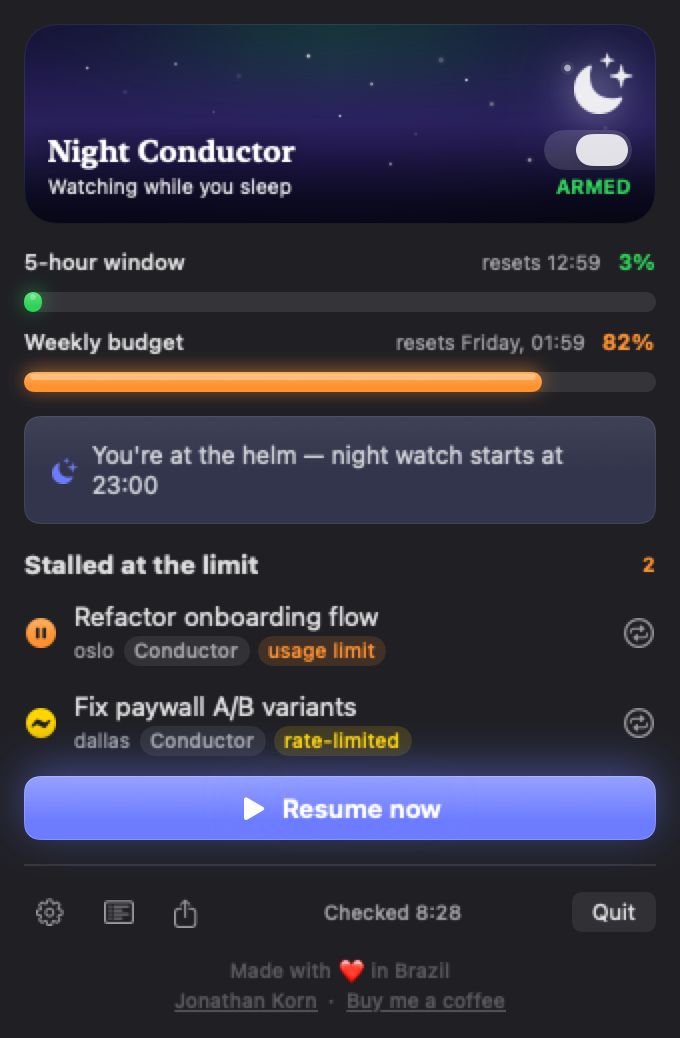
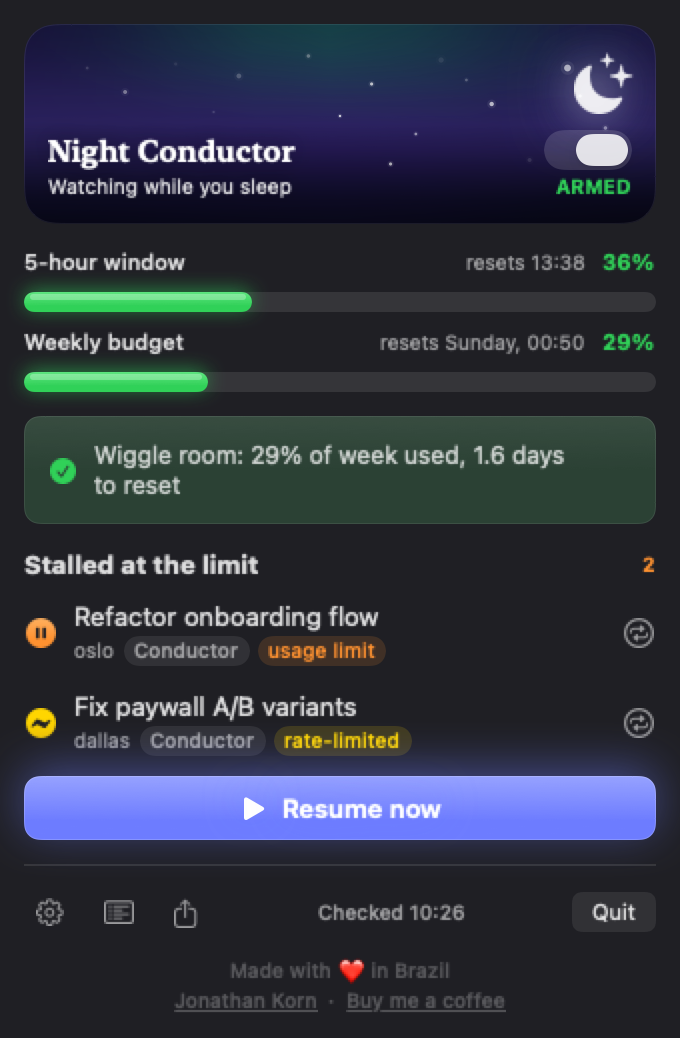
fix: remove em dashes from all in-app copy; keep docs screenshots on demo data
Standing rule: zero em/en dashes in any shipped copy. The whole UI was full of
them (decision lines, the morning notification, tooltips, the activity log, the
new sign-in-expired message, the usage placeholder). Replaced every one in a
user-facing string with commas/periods (and the unknown-usage placeholder with
a middot). Comments are untouched, so the diff stays in shipped strings.

Also fixed a screenshot-tooling regression: the popover's new on-open refresh
was firing during offscreen rendering, so docs screenshots pulled LIVE usage
(leaking real numbers) and a time-dependent decision. AppState now exposes
isScreenshot and the popover skips the live refresh in that mode, so docs use
curated demo data again. Regenerated popover/settings. 37 tests green.

diff --git a/NightConductor/Sources/NightConductor/AppState.swift b/NightConductor/Sources/NightConductor/AppState.swift
@@ -39,8 +39,10 @@ final class AppState: ObservableObject {
     // running a resume pass at the same time (which could double-run a
     // session and bypass the per-night caps).
     private var isResuming = false
+    let isScreenshot: Bool  // true → inert demo state; never hit the live API
 
     init(forScreenshots: Bool = false) {
+        isScreenshot = forScreenshots
         UserDefaults.standard.register(defaults: [
             "armed": true,
             "startHour": 23,
@@ -157,7 +159,7 @@ final class AppState: ObservableObject {
                 let delays = [300.0, 600.0, 1200.0, 1800.0] // 5, 10, 20, 30 min
                 usageBackoffStep = min(usageBackoffStep + 1, delays.count)
                 usageBackoffUntil = now.addingTimeInterval(delays[usageBackoffStep - 1])
-                log("Usage rate-limited — backing off \(Int(delays[usageBackoffStep - 1] / 60))m")
+                log("Usage rate-limited, backing off \(Int(delays[usageBackoffStep - 1] / 60))m")
             } catch let error as UsageError where error.isSignInExpired {
                 // The fetch was skipped/refused because the Claude Code token
                 // expired. No backoff (the call is cheap and we never hit the
@@ -200,11 +202,11 @@ final class AppState: ObservableObject {
         }
         let reason: String
         if signInExpired {
-            reason = "Claude sign-in expired — open Claude Code or Conductor to refresh"
+            reason = "Claude sign-in expired. Open Claude Code or Conductor to refresh"
         } else if usage == nil {
             reason = "Checking usage…"
         } else {
-            reason = "Usage data is stale — holding"
+            reason = "Usage data is stale, holding"
         }
         decision = Decision(resume: false, reason: reason, state: .checking)
         return false
@@ -275,7 +277,7 @@ final class AppState: ObservableObject {
         sessions: [StalledSession], config: PolicyConfig, manual: Bool
     ) async {
         guard !isResuming else {
-            if manual { log("Busy resuming — try again in a moment") } // don't drop silently
+            if manual { log("Busy resuming, try again in a moment") } // don't drop silently
             return
         } // never run two passes at once
         isResuming = true
@@ -340,7 +342,7 @@ final class AppState: ObservableObject {
                     }.value
                     handedToApp = result.ok
                     if !result.ok {
-                        log("↻ UI resume failed (\(result.detail)) — falling back to headless")
+                        log("↻ UI resume failed (\(result.detail)), falling back to headless")
                     }
                 }
                 if !result.ok, let claudePath = await claudeBinary() {
@@ -361,7 +363,7 @@ final class AppState: ObservableObject {
 
             currentlyResuming = nil
             if handedToApp {
-                log("✓ \(session.title) resumed inside \(session.source.label) — chat stays in sync")
+                log("✓ \(session.title) resumed inside \(session.source.label), chat stays in sync")
             } else {
                 log(result.ok ? "✓ \(session.title) finished a run" : "✗ \(session.title): \(result.detail)")
             }
@@ -392,11 +394,11 @@ final class AppState: ObservableObject {
             // bursting. The next (jittered) tick re-checks budget and takes
             // the next session. A manual pass keeps going through the list.
             if handedToApp {
-                log("Handed to \(session.source.label) — next session shortly")
+                log("Handed to \(session.source.label), next session shortly")
                 break
             }
             if result.ok, !manual {
-                log("Resumed \(session.title) — spacing out, next at the next cycle")
+                log("Resumed \(session.title), spacing out, next at the next cycle")
                 break
             }
             // Otherwise (failed, or a manual headless run) try the next now.
@@ -416,7 +418,7 @@ final class AppState: ObservableObject {
         guard count > 0 else { return }
         let latest = ResumeHistory.load().sorted { $0.date > $1.date }.first?.title
         Notifications.postMorningSummary(count: count, sampleTitle: latest)
-        log("🌅 Good morning — \(count) resumed overnight")
+        log("🌅 Good morning, \(count) resumed overnight")
     }
 
     private func log(_ message: String) {

diff --git a/NightConductor/Sources/NightConductor/MenuView.swift b/NightConductor/Sources/NightConductor/MenuView.swift
@@ -66,7 +66,11 @@ struct MenuView: View {
         // Opening the popover is an explicit "show me now". If the cached
         // reading is stale, force a refresh (which also punches through a 429
         // backoff); if it's already fresh, stay throttled to avoid hammering.
-        .onAppear { Task { await state.refreshUsage(force: !state.usageIsFresh()) } }
+        // Never in screenshot mode — docs must use curated demo data, not live.
+        .onAppear {
+            guard !state.isScreenshot else { return }
+            Task { await state.refreshUsage(force: !state.usageIsFresh()) }
+        }
     }
 
     // Living night-sky header: a drifting aurora + twinkling starfield, with
@@ -187,7 +191,7 @@ struct MenuView: View {
         if state.stalled.isEmpty {
             HStack(spacing: Design.m) {
                 Image(systemName: "moon.zzz.fill").foregroundStyle(.secondary)
-                Text("No stalled sessions — all quiet")
+                Text("No stalled sessions, all quiet")
                     .font(.callout).foregroundStyle(.secondary)
             }
             .padding(.vertical, Design.s)
@@ -207,7 +211,7 @@ struct MenuView: View {
                     stalledRow(session)
                 }
                 if state.stalled.count > maxStalledRows {
-                    Text("+ \(state.stalled.count - maxStalledRows) more — pin the ones you want resumed by day")
+                    Text("+ \(state.stalled.count - maxStalledRows) more, pin the ones you want resumed by day")
                         .font(.caption2)
                         .foregroundStyle(.secondary)
                         .padding(.leading, 2)
@@ -221,7 +225,7 @@ struct MenuView: View {
                 }
                 .buttonStyle(GlowButtonStyle(disabled: state.isWorking))
                 .disabled(state.isWorking)
-                .help("Resumes now — bypasses the schedule and budget gates")
+                .help("Resumes now, bypasses the schedule and budget gates")
             }
         }
     }
@@ -260,7 +264,7 @@ struct MenuView: View {
             }
             .buttonStyle(.plain)
             .help(pinned
-                  ? "Auto-resuming any time — click to stop"
+                  ? "Auto-resuming any time, click to stop"
                   : "Auto-resume this session any time (not just at night)")
         }
         .padding(.vertical, 2)
@@ -383,7 +387,7 @@ struct UsageMeter: View {
                 Text(label).font(.subheadline.weight(.medium))
                 Spacer()
                 Text(resetText).font(.caption).foregroundStyle(.secondary)
-                Text(window == nil ? "–" : "\(Int(value))%")
+                Text(window == nil ? "·" : "\(Int(value))%")
                     .font(.subheadline.weight(.bold).monospacedDigit())
                     .foregroundStyle(Color.usageStatus(value))
                     .contentTransition(.numericText())

diff --git a/NightConductor/Sources/NightConductor/Policy.swift b/NightConductor/Sources/NightConductor/Policy.swift
@@ -37,7 +37,7 @@ enum Policy {
             // over, not "outside <something> hours".
             return Decision(
                 resume: false,
-                reason: "You're at the helm — night watch starts at \(config.startHour):00",
+                reason: "You're at the helm, night watch starts at \(config.startHour):00",
                 state: .standingBy
             )
         }